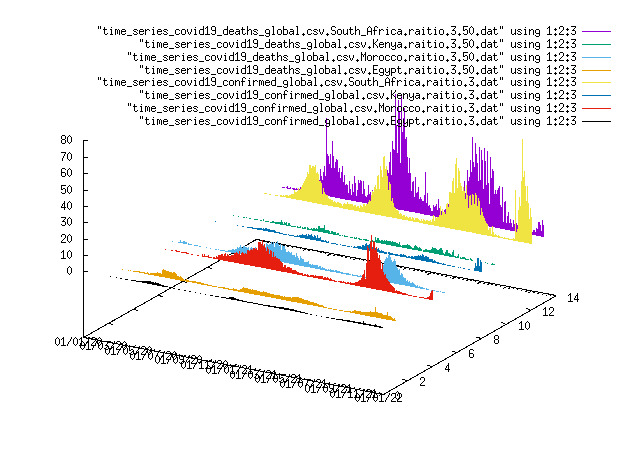
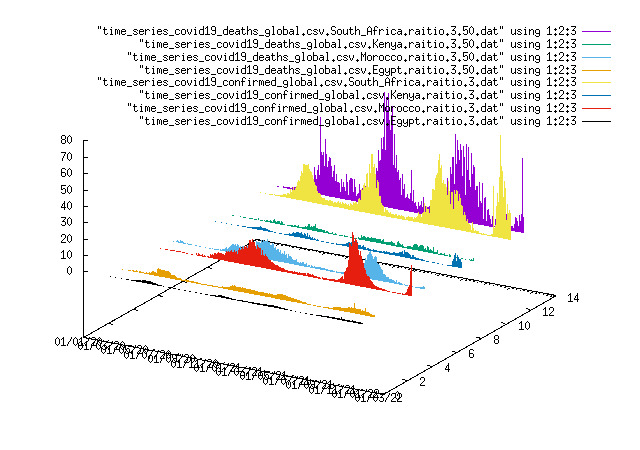
up

diff --git a/index.html b/index.html
@@ -131,7 +131,7 @@ border-left:none;
   <li><a href="https://raw.githubusercontent.com/KeiHasegawa/covid19/master/JapanRussia.jpg">日本, ロシア 10 万人当りの新規陽性者数と死者数</a></li>
   <li><a href="https://raw.githubusercontent.com/KeiHasegawa/covid19/master/JapanUK.jpg">日本, イギリス 10 万人当りの新規陽性者数と死者数</a></li>
   <li><a href="https://raw.githubusercontent.com/KeiHasegawa/covid19/master/Sat_Aug_28_13:00:00_2021.jpg">東京, 千葉, 埼玉, 神奈川の 2021/08/28 (土) 13:00 の人出</a></li>
-  <li><a href="https://raw.githubusercontent.com/KeiHasegawa/covid19/master/Nihonbashi.jpg">日本橋の人出(2021/08/22 - 2022/01/02)</a></li>
+  <li><a href="https://raw.githubusercontent.com/KeiHasegawa/covid19/master/Nihonbashi.jpg">日本橋の人出(2021/08/22 - 2022/01/09)</a></li>
   <li><a href="https://raw.githubusercontent.com/KeiHasegawa/covid19/master/read_tokyo.cpp">read_tokyo.cpp</a></li>
   <li><a href="https://raw.githubusercontent.com/KeiHasegawa/covid19/master/read_nhk.cpp">read_nhk.cpp</a></li>
   <li><a href="https://raw.githubusercontent.com/KeiHasegawa/covid19/master/read_tsc19.cpp">read_tsc19.cpp</a></li>

diff --git a/disp_main.cpp b/disp_main.cpp
@@ -2152,6 +2152,13 @@ int read_dll()
     "../2021.12.30.18/2021_12_30_18",
     "../2022.01.01.18/2022_01_01_18",
     "../2022.01.02.18/2022_01_02_18",
+    "../2022.01.03.18/2022_01_03_18",
+    "../2022.01.04.18/2022_01_04_18",
+    "../2022.01.05.18/2022_01_05_18",
+    "../2022.01.06.18/2022_01_06_18",
+    "../2022.01.07.18/2022_01_07_18",
+    "../2022.01.08.18/2022_01_08_18",
+    "../2022.01.09.18/2022_01_09_18",
   };
   auto p = find_if(begin(dll), end(dll), read_dll1);
   return p - end(dll);
